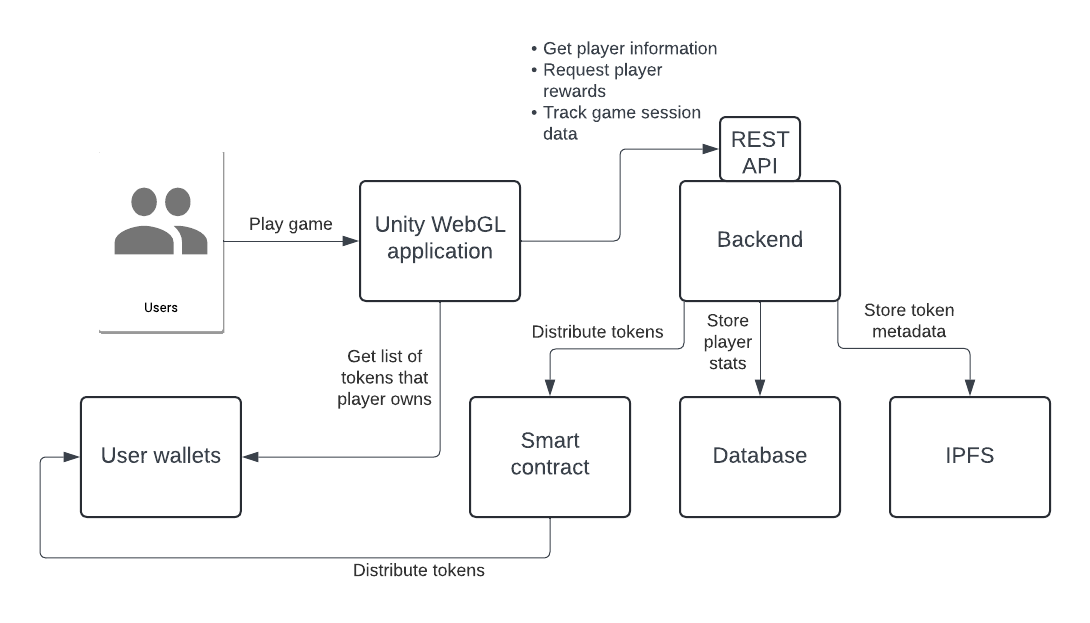
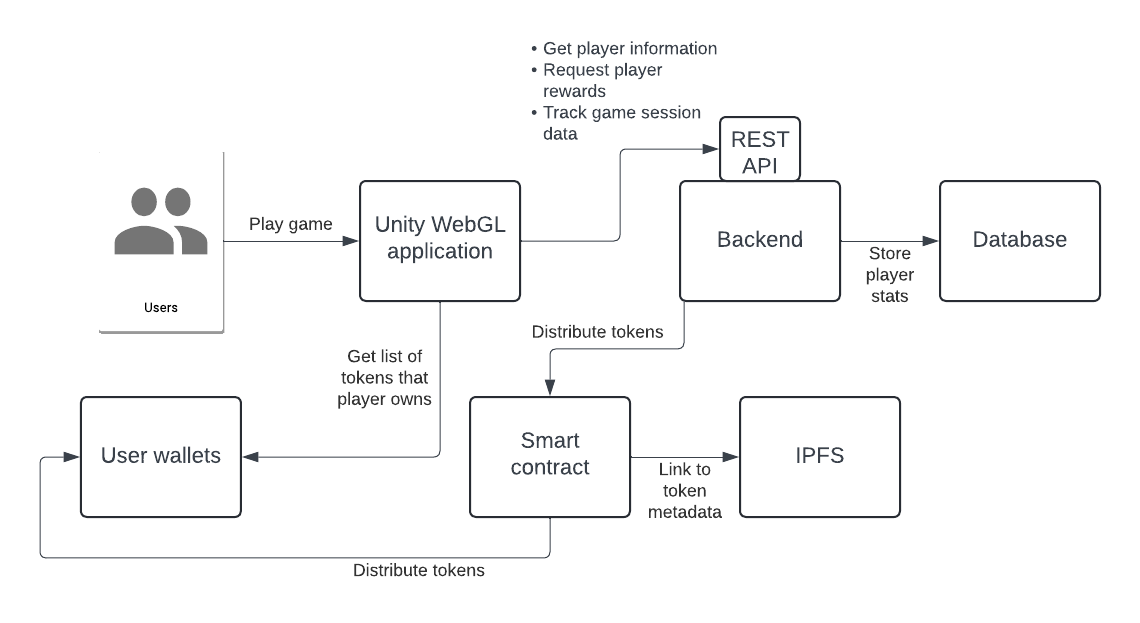
Clarify connection between contract and IPFS

diff --git a/docs/unity/sample-game.md b/docs/unity/sample-game.md
@@ -2,7 +2,7 @@
 title: Sample game
 authors: Tim McMackin
 last_update:
-  date: 22 May 2024
+  date: 3 June 2024
 ---
 
 The sample game for the Unity SDK is a single-player third-person shooter with survival elements.
@@ -55,6 +55,7 @@ The sample game uses a custom contract, but you can use the SDK's built-in FA2-c
 You can view and interact with the contract on a block explorer, such as tzkt.io: https://tzkt.io/KT1TSZfPJ5uZW1GjcnXmvt1npAQ2nh5S1FAj/operations.
 
 - The **Interplanetary File System (IPFS)** stores metadata for the tokens, including pictures and descriptions.
+Links in the smart contract point to this metadata.
 
 This diagram shows the basic interaction between these components:
 
